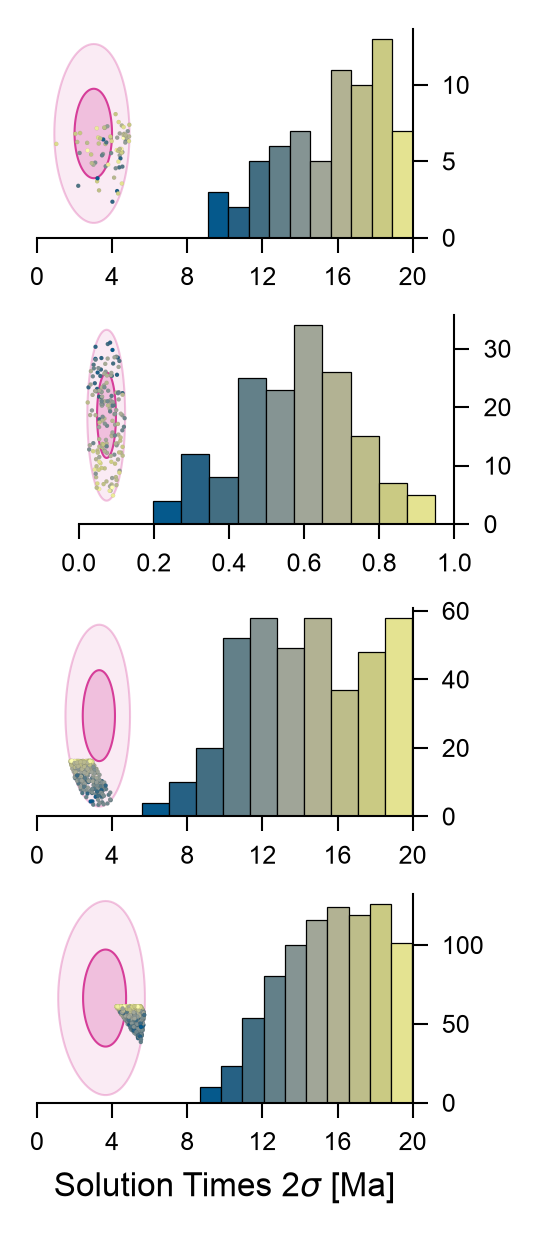
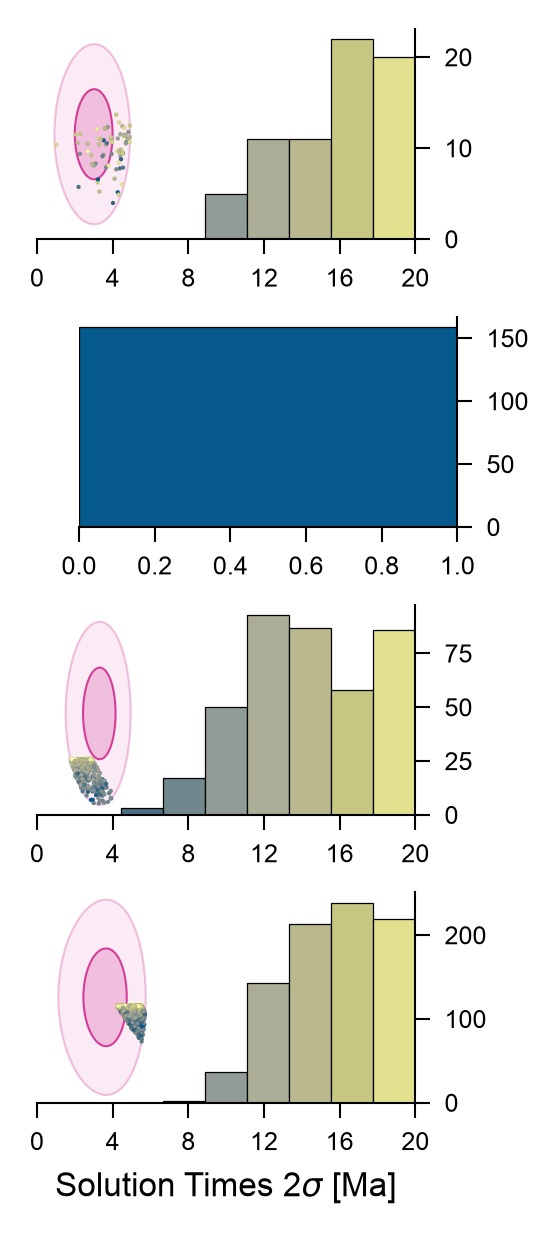
before_broken_axis

diff --git a/generate_figures/scripts/Fig3_S1_4_S10_Age_solutions.py b/generate_figures/scripts/Fig3_S1_4_S10_Age_solutions.py
@@ -173,8 +173,9 @@ for i, sample_id in enumerate(samples_id):
     else:
         hist_ax = ax.inset_axes([0, 0, 0.9, 1])
 
+    bins = np.linspace(0,20,10)
+
     ##cut valid solutions for histograms
-    n, bins, patches = hist_ax.hist(range_age_valid_times_solution, bins=10, edgecolor="black", linewidth=0.3)
 
     norm = plt.Normalize(bins.min(), bins.max())
     cmap = plt.get_cmap(cm.nuuk)
@@ -183,6 +184,9 @@ for i, sample_id in enumerate(samples_id):
     if sample_id != "SB-013":
         hist_ax.set_xlim([0,x_lim])
     else:
+        n, bins, patches = hist_ax.hist(range_age_valid_times_solution, bins=bins, edgecolor="black", linewidth=0.3)
+
+
         hist_ax.set_xlim([0,1])
     hist_ax.set_facecolor('None')
     if sample_id == "SB-017":
@@ -251,8 +255,7 @@ for i, sample_id in enumerate(samples_id):
     ax2.tick_params(axis="both", which="major", labelsize=10)
     ax2.spines["top"].set_visible(False)
     ax2.spines["right"].set_visible(False)
-    ax2.semilogx()
-    ##Histogram for initial n10
+    ax2.set_xscale("log")    ##Histogram for initial n10
 
     all_initial_n10 = []
     all_initial_n10.extend(valid_initial_n10)
@@ -270,8 +273,7 @@ for i, sample_id in enumerate(samples_id):
     ax3.spines["top"].set_visible(False)
     ax3.spines["right"].set_visible(False)
     ax3.legend(fontsize=10)
-    ax3.semilogx()
-    ##Scatter for deposition and time
+    ax3.set_xscale("log")    ##Scatter for deposition and time
 
     ax4.set_facecolor(facecolor_axes)
     ax4.scatter(valid_deposition_rates,valid_times_solution,linewidth=0.2,edgecolors="black",s=20,c="#EAFAF4")
@@ -280,7 +282,7 @@ for i, sample_id in enumerate(samples_id):
     ax4.tick_params(axis="both", which="major", labelsize=10)
     ax4.spines["top"].set_visible(False)
     ax4.spines["right"].set_visible(False)
-    ax4.semilogx()
+    ax4.set_xscale("log")
     ax4.annotate("D", (0.009, 0.99), xycoords="axes fraction",
                  fontweight="bold", fontsize=16, fontname="Arial")
 
@@ -296,9 +298,10 @@ for i, sample_id in enumerate(samples_id):
     ax5.tick_params(axis="both", which="major", labelsize=10)
     ax5.spines["top"].set_visible(False)
     ax5.spines["right"].set_visible(False)
-    ax5.semilogx()
+    ax5.set_xscale("log")
     ax5.annotate("E", (0.009, 0.99), xycoords="axes fraction",
                  fontweight="bold", fontsize=16, fontname="Arial")
+    
     plot_forbiden_zone(all_initial_n10,all_ratio,ax6)
 
     if sample_id == "BV-018":
@@ -309,7 +312,7 @@ for i, sample_id in enumerate(samples_id):
         ax7.tick_params(axis="both", which="major", labelsize=10)
         ax7.spines["top"].set_visible(False)
         ax7.spines["right"].set_visible(False)
-        ax7.semilogx()
+        ax7.set_xscale("log")
         ax7.annotate("G", (0.009, 0.99), xycoords="axes fraction",
                      fontweight="bold", fontsize=16, fontname="Arial")
 
@@ -332,7 +335,7 @@ for i, sample_id in enumerate(samples_id):
         ax8.tick_params(axis="both", which="major", labelsize=10)
         ax8.spines["top"].set_visible(False)
         ax8.spines["right"].set_visible(False)
-        ax8.semilogx()
+        ax8.set_xscale("log")
         ax8.set_xlim(1e-4,1)
         ax8.annotate("H", (0.009, 0.99), xycoords="axes fraction",
                      fontweight="bold", fontsize=16, fontname="Arial")

diff --git a/generate_figures/scripts/FigS3_calc_Rc.py b/generate_figures/scripts/FigS3_calc_Rc.py
@@ -13,6 +13,8 @@ from tqdm import tqdm
 import matplotlib.pyplot as plt
 from mcadam import calc_mcadam_medians
 
+plt.rcParams["font.family"] = "Arial"
+
 
 class calc_Rc:
     def __init__(self):
@@ -58,8 +60,8 @@ class calc_Rc:
         plt.plot(((np.arange(0,800,1))*50000)/1e6,Rc_list, label="Cutoff Rigidity (Rc) - based on MCADAM",color="gray")
         ax = plt.gca()
         ax.set_facecolor("#FAFAFA")
-        plt.xlabel("Age (Ma)",fontsize=16)
-        plt.ylabel("Rc (GV)",fontsize=16)
+        plt.xlabel("Age [Ma]",fontsize=16)
+        plt.ylabel("Cutoff Rigidity - Rc [GV]",fontsize=16)
         ax.set_xticklabels(ax.get_xticks(), fontsize=14)
         ax.set_yticklabels(ax.get_yticks(), fontsize=14)
         plt.legend(fontsize=14)
